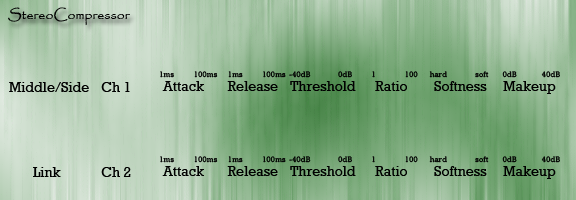
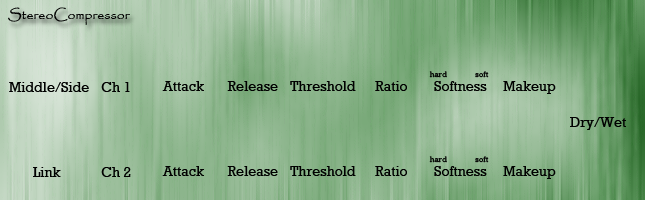
Fixing the Stereo Compressor

diff --git a/ATKStereoCompressor/ATKStereoCompressor.cpp b/ATKStereoCompressor/ATKStereoCompressor.cpp
@@ -127,6 +127,7 @@ ATKStereoCompressor::ATKStereoCompressor(IPlugInstanceInfo instanceInfo)
   pGraphics->AttachControl(new IKnobMultiControlText(this, IRECT(kAttack1X, kAttack1Y, kAttack1X + 43, kAttack1Y + 43 + 21), kAttack1, &knob, &text, "ms"));
   pGraphics->AttachControl(new IKnobMultiControlText(this, IRECT(kRelease1X, kRelease1Y, kRelease1X + 43, kRelease1Y + 43 + 21), kRelease1, &knob, &text, "ms"));
   pGraphics->AttachControl(new IKnobMultiControlText(this, IRECT(kThreshold1X, kThreshold1Y, kThreshold1X + 43, kThreshold1Y + 43 + 21), kThreshold1, &knob, &text, "dB"));
+  pGraphics->AttachControl(new IKnobMultiControlText(this, IRECT(kRatio1X, kRatio1Y, kRatio1X + 43, kRatio1Y + 43 + 21), kRatio1, &knob, &text, ""));
   pGraphics->AttachControl(new IKnobMultiControl(this, kSoftness1X, kSoftness1Y, kSoftness1, &knob));
   pGraphics->AttachControl(new IKnobMultiControlText(this, IRECT(kMakeup1X, kMakeup1Y, kMakeup1X + 43, kMakeup1Y + 43 + 21), kMakeup1, &knob, &text, "dB"));
 
@@ -136,7 +137,7 @@ ATKStereoCompressor::ATKStereoCompressor(IPlugInstanceInfo instanceInfo)
   pGraphics->AttachControl(release2);
   threshold2 = new IKnobMultiControlText(this, IRECT(kThreshold2X, kThreshold2Y, kThreshold2X + 43, kThreshold2Y + 43 + 21), kThreshold2, &knob, &text, "dB");
   pGraphics->AttachControl(threshold2);
-  ratio2 = new IKnobMultiControl(this, kRatio2X, kRatio2Y, kRatio2, &knob);
+  ratio2 = new IKnobMultiControlText(this, IRECT(kRatio2X, kRatio2Y, kRatio2X + 43, kRatio2Y + 43 + 21), kRatio2, &knob, &text, "");
   pGraphics->AttachControl(ratio2);
   softness2 = new IKnobMultiControl(this, kSoftness2X, kSoftness2Y, kSoftness2, &knob);
   pGraphics->AttachControl(softness2);
@@ -424,6 +425,10 @@ void ATKStereoCompressor::OnParamChange(int paramIdx)
       break;
     case kMakeup1:
       makeupFilter1.set_volume_db(GetParam(kMakeup1)->Value());
+      if (GetParam(kLinkChannels)->Bool())
+      {
+        makeupFilter2.set_volume_db(GetParam(kMakeup1)->Value());
+      }
       break;
     case kThreshold2:
       gainCompressorFilter2.set_threshold(std::pow(10, GetParam(kThreshold2)->Value() / 10));
@@ -444,7 +449,7 @@ void ATKStereoCompressor::OnParamChange(int paramIdx)
       makeupFilter2.set_volume_db(GetParam(kMakeup2)->Value());
       break;
     case kDryWet:
-      drywetFilter.set_dry(1 - GetParam(kDryWet)->Value());
+      drywetFilter.set_dry(GetParam(kDryWet)->Value());
       break;
 
     default:

diff --git a/ATKStereoCompressor/ATKStereoCompressor.h b/ATKStereoCompressor/ATKStereoCompressor.h
@@ -60,7 +60,7 @@ private:
   IKnobMultiControlText* attack2;
   IKnobMultiControlText* release2;
   IKnobMultiControlText* threshold2;
-  IKnobMultiControl* ratio2;
+  IKnobMultiControlText* ratio2;
   IKnobMultiControl* softness2;
   IKnobMultiControlText* makeup2;
 };
